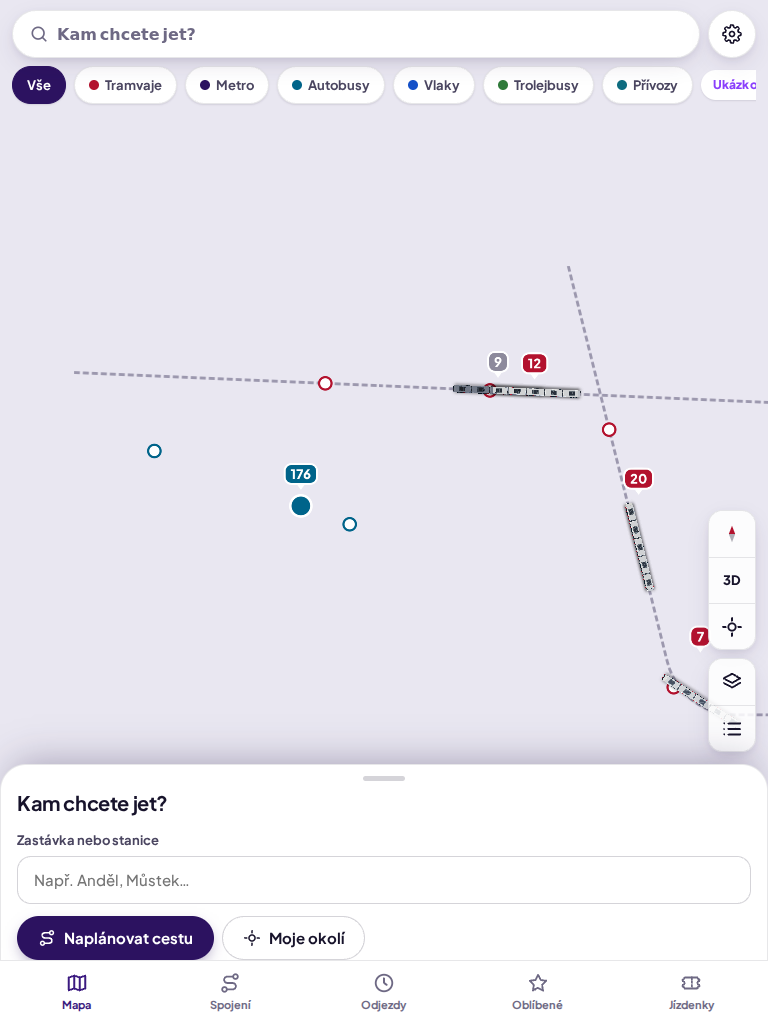
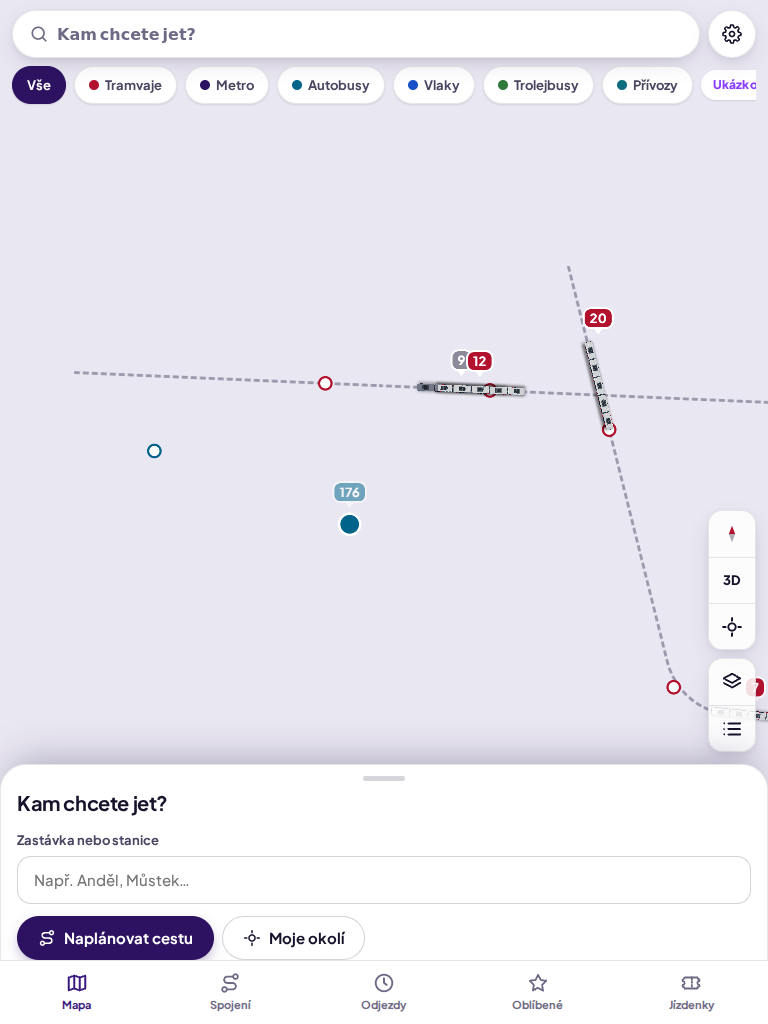
v0.3.1: klidnější barevné budovy, čistší podklad mapy

diff --git a/src/map/controller.ts b/src/map/controller.ts
@@ -33,9 +33,10 @@ export const FALLBACK_STYLE_URL = '/map/offline-style.json';
 /** Worker MapLibre servírovaný z /public (viz scripts/copy-maplibre-worker.mjs). */
 const WORKER_URL = '/maplibre/maplibre-gl-worker.mjs';
 const PRAGUE: [number, number] = [14.4205, 50.0815];
-const ROOF_PALETTE = ['#A65A3F', '#9A4E37', '#B0674A', '#6B6E73', '#5E6167'];
-const FACADE_PALETTE = ['#E9DFCB', '#DCCBA9', '#E5D3BC', '#D3CDC3', '#E8CFB8', '#CDBFAE', '#EFE6D2', '#D9C3A0'];
-const GLASS_PALETTE = ['#9DB0C0', '#A9B8C4', '#8FA2B4'];
+/** Světlé pastelové fasády a jemně cihlové střechy (vyladěno náhledem; tmavé a syté barvy působily levně). */
+const FACADE_PALETTE = ['#F1E9DA', '#EADFC8', '#F0DDD3', '#E4E6E9', '#EDE4D3', '#F3EBCF', '#F5F1EA', '#E9E1D6'];
+const ROOF_PALETTE = ['#DCC2B4', '#D6BBAC', '#D2C6BC', '#CFCAC4', '#D9B9A6'];
+const HIDDEN_BASEMAP_LAYERS = ['poi_r7', 'poi_r20', 'poi_transit'];
 const ROAD_CLASSES = new Set(['motorway', 'trunk', 'primary', 'secondary', 'tertiary', 'minor', 'service', 'busway', 'bus_guideway']);
 const RAIL_SUBCLASSES = new Set(['rail', 'light_rail', 'narrow_gauge', 'preserved', 'funicular']);
 
@@ -542,8 +543,9 @@ export class MapController {
     const h: ExpressionSpecification = ['to-number', ['get', 'render_height'], 0];
     const hash = ['abs', ['+', ['to-number', ['id'], 0], ['round', ['*', h, 7]], ['round', ['*', ['to-number', ['get', 'render_min_height'], 0], 3]]]];
     const pick = (list: string[]) => ['match', ['%', hash, list.length], ...list.slice(0, -1).flatMap((c, i) => [i, c]), list[list.length - 1]];
-    const facade = ['coalesce', ['get', 'colour'], ['case', ['>', h, 45], pick(GLASS_PALETTE), pick(FACADE_PALETTE)]] as unknown as ExpressionSpecification;
-    const roof = ['case', ['>', h, 30], pick(ROOF_PALETTE.slice(3)), pick(ROOF_PALETTE)] as unknown as ExpressionSpecification;
+    // Barvy z OSM (building:colour) se nepoužívají: vedly k černým a sytě modrým blokům.
+    const facade = ['case', ['>', h, 40], '#DCE3EA', pick(FACADE_PALETTE)] as unknown as ExpressionSpecification;
+    const roof = ['case', ['>', h, 40], '#D3D8DD', pick(ROOF_PALETTE)] as unknown as ExpressionSpecification;
     layers.forEach((l, i) => {
       if (l.type !== 'fill-extrusion' || l.id.startsWith('dop-') || !('source-layer' in l) || l['source-layer'] !== 'building') return;
       try {
@@ -554,11 +556,13 @@ export class MapController {
           const before = layers.slice(i + 1).find((x) => this.map.getLayer(x.id))?.id;
           this.map.addLayer({ id: 'dop-roofs', type: 'fill-extrusion', source: l.source, 'source-layer': 'building', minzoom: l.minzoom ?? 14,
             ...(l.filter ? { filter: l.filter } : {}),
-            paint: { 'fill-extrusion-color': roof, 'fill-extrusion-base': h, 'fill-extrusion-height': ['+', h, 0.6], 'fill-extrusion-opacity': 1 } } as LayerSpecification, before);
+            paint: { 'fill-extrusion-color': roof, 'fill-extrusion-base': h, 'fill-extrusion-height': ['+', h, 0.4], 'fill-extrusion-opacity': 1 } } as LayerSpecification, before);
         }
       } catch { /* jiný styl bez atributů OpenMapTiles */ }
     });
-    try { this.map.setLight({ anchor: 'map', position: [1.4, 210, 40], color: '#ffffff', intensity: 0.42 }); } catch { /* volitelné */ }
+    try { this.map.setLight({ anchor: 'viewport', position: [1.15, 210, 30], color: '#ffffff', intensity: 0.25 }); } catch { /* volitelné */ }
+    // Klidnější podklad: drobné body zájmu a duplicitní značky zastávek (máme vlastní) skrýt.
+    for (const id of HIDDEN_BASEMAP_LAYERS) if (this.map.getLayer(id)) this.map.setLayoutProperty(id, 'visibility', 'none');
     try { this.map.setSky({ 'sky-color': '#BCD8F5', 'horizon-color': '#EAF1F7', 'fog-color': '#EEF2F5', 'sky-horizon-blend': 0.6, 'horizon-fog-blend': 0.7, 'fog-ground-blend': 0.9 }); } catch { /* volitelné */ }
   }
 

diff --git a/public/sw.js b/public/sw.js
@@ -1,5 +1,5 @@
 /* Doprava – service worker: offline obal aplikace a poslední data s jasně označeným stářím. */
-const VERSION = 'doprava-v3';
+const VERSION = 'doprava-v3-1';
 const SHELL = `${VERSION}-shell`, STATIC = `${VERSION}-static`, API = `${VERSION}-api`;
 const SHELL_URLS = ['/', '/odjezdy', '/spojeni', '/oblibene', '/jizdenky', '/nastaveni', '/map/offline-style.json', '/icons/icon-192.png'];
 const STATIC_PREFIXES = ['/_next/static/', '/vehicles/', '/icons/', '/map/', '/maplibre/'];

diff --git a/CHANGELOG.md b/CHANGELOG.md
@@ -1,5 +1,9 @@
 # Changelog
 
+## 0.3.1 – 2026-10-01
+- 3D budovy: světlé pastelové fasády a jemně cihlové střechy místo tmavých stěn a sytých střech; bez barev z OSM (černé a modré bloky); měkčí světlo.
+- Klidnější podklad: skryté drobné body zájmu a duplicitní značky zastávek z podkladu.
+
 ## 0.3.0 – 2026-10-01
 - Skutečné 3D modely vozidel (Three.js ve společném WebGL kontextu MapLibre; tramvaj, vlak, metro, autobus, trolejbus) – převzaté z úpravy „OPRAVA-3D“ a napojené na naše navázání na trať: model stojí na koleji a míří podél ní.
 - Výběr kliknutím přímo do 3D karoserie; volba 3D modely / PNG shora / značky (Vrstvy mapy, Nastavení), jednorázová migrace uložených nastavení na 3D.
